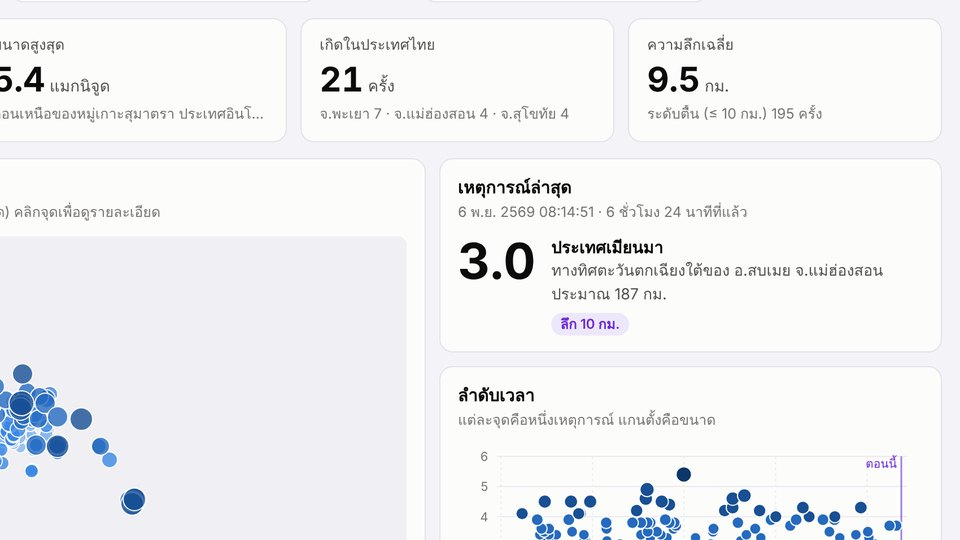
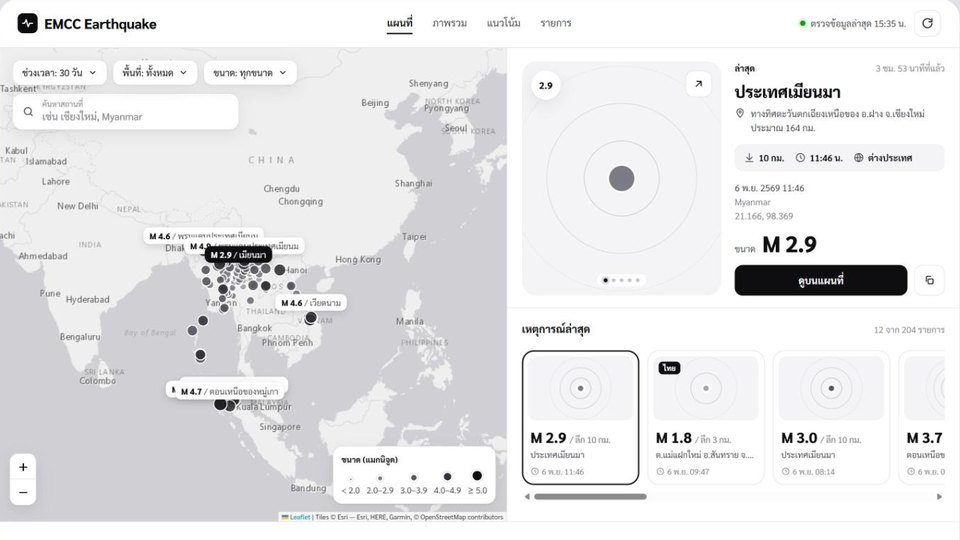
Update earthquake card cover to the new dashboard design
Claude-Session: https://claude.ai/code/session_01H3bH2P4xwbogHySpPsmviz

diff --git a/index.html b/index.html
@@ -358,7 +358,7 @@ footer{background:var(--ink);color:#b9c0bc;font-size:14px}
           </span>
         </a>
         <a class="card" href="https://tmd-earthquake.nawakonnakhonchai.workers.dev/" target="_blank" rel="noopener">
-          <span class="card-media"><img src="assets/cover-earthquake.jpg?v=20261106" alt="หน้าจอระบบติดตามแผ่นดินไหว: จำนวนเหตุการณ์ ขนาดสูงสุด แผนที่จุดศูนย์กลาง และลำดับเวลา" data-en-alt="Screenshot of the earthquake monitor: event counts, maximum magnitude, epicenter map and timeline" width="960" height="540" loading="lazy"><span class="card-tag"><span data-en="Dashboard">Dashboard</span></span></span>
+          <span class="card-media"><img src="assets/cover-earthquake.jpg?v=20261106b" alt="หน้าจอระบบติดตามแผ่นดินไหว: แผนที่จุดศูนย์กลาง ตัวกรอง และรายละเอียดเหตุการณ์ล่าสุด" data-en-alt="Screenshot of the earthquake monitor: epicenter map, filters and latest event details" width="960" height="540" loading="lazy"><span class="card-tag"><span data-en="Dashboard">Dashboard</span></span></span>
           <span class="card-body">
             <h3 data-en="Earthquake monitor">สถานการณ์แผ่นดินไหว</h3>
             <span class="card-by" data-en="Data: Thai Meteorological Department">ข้อมูล: กรมอุตุนิยมวิทยา</span>
